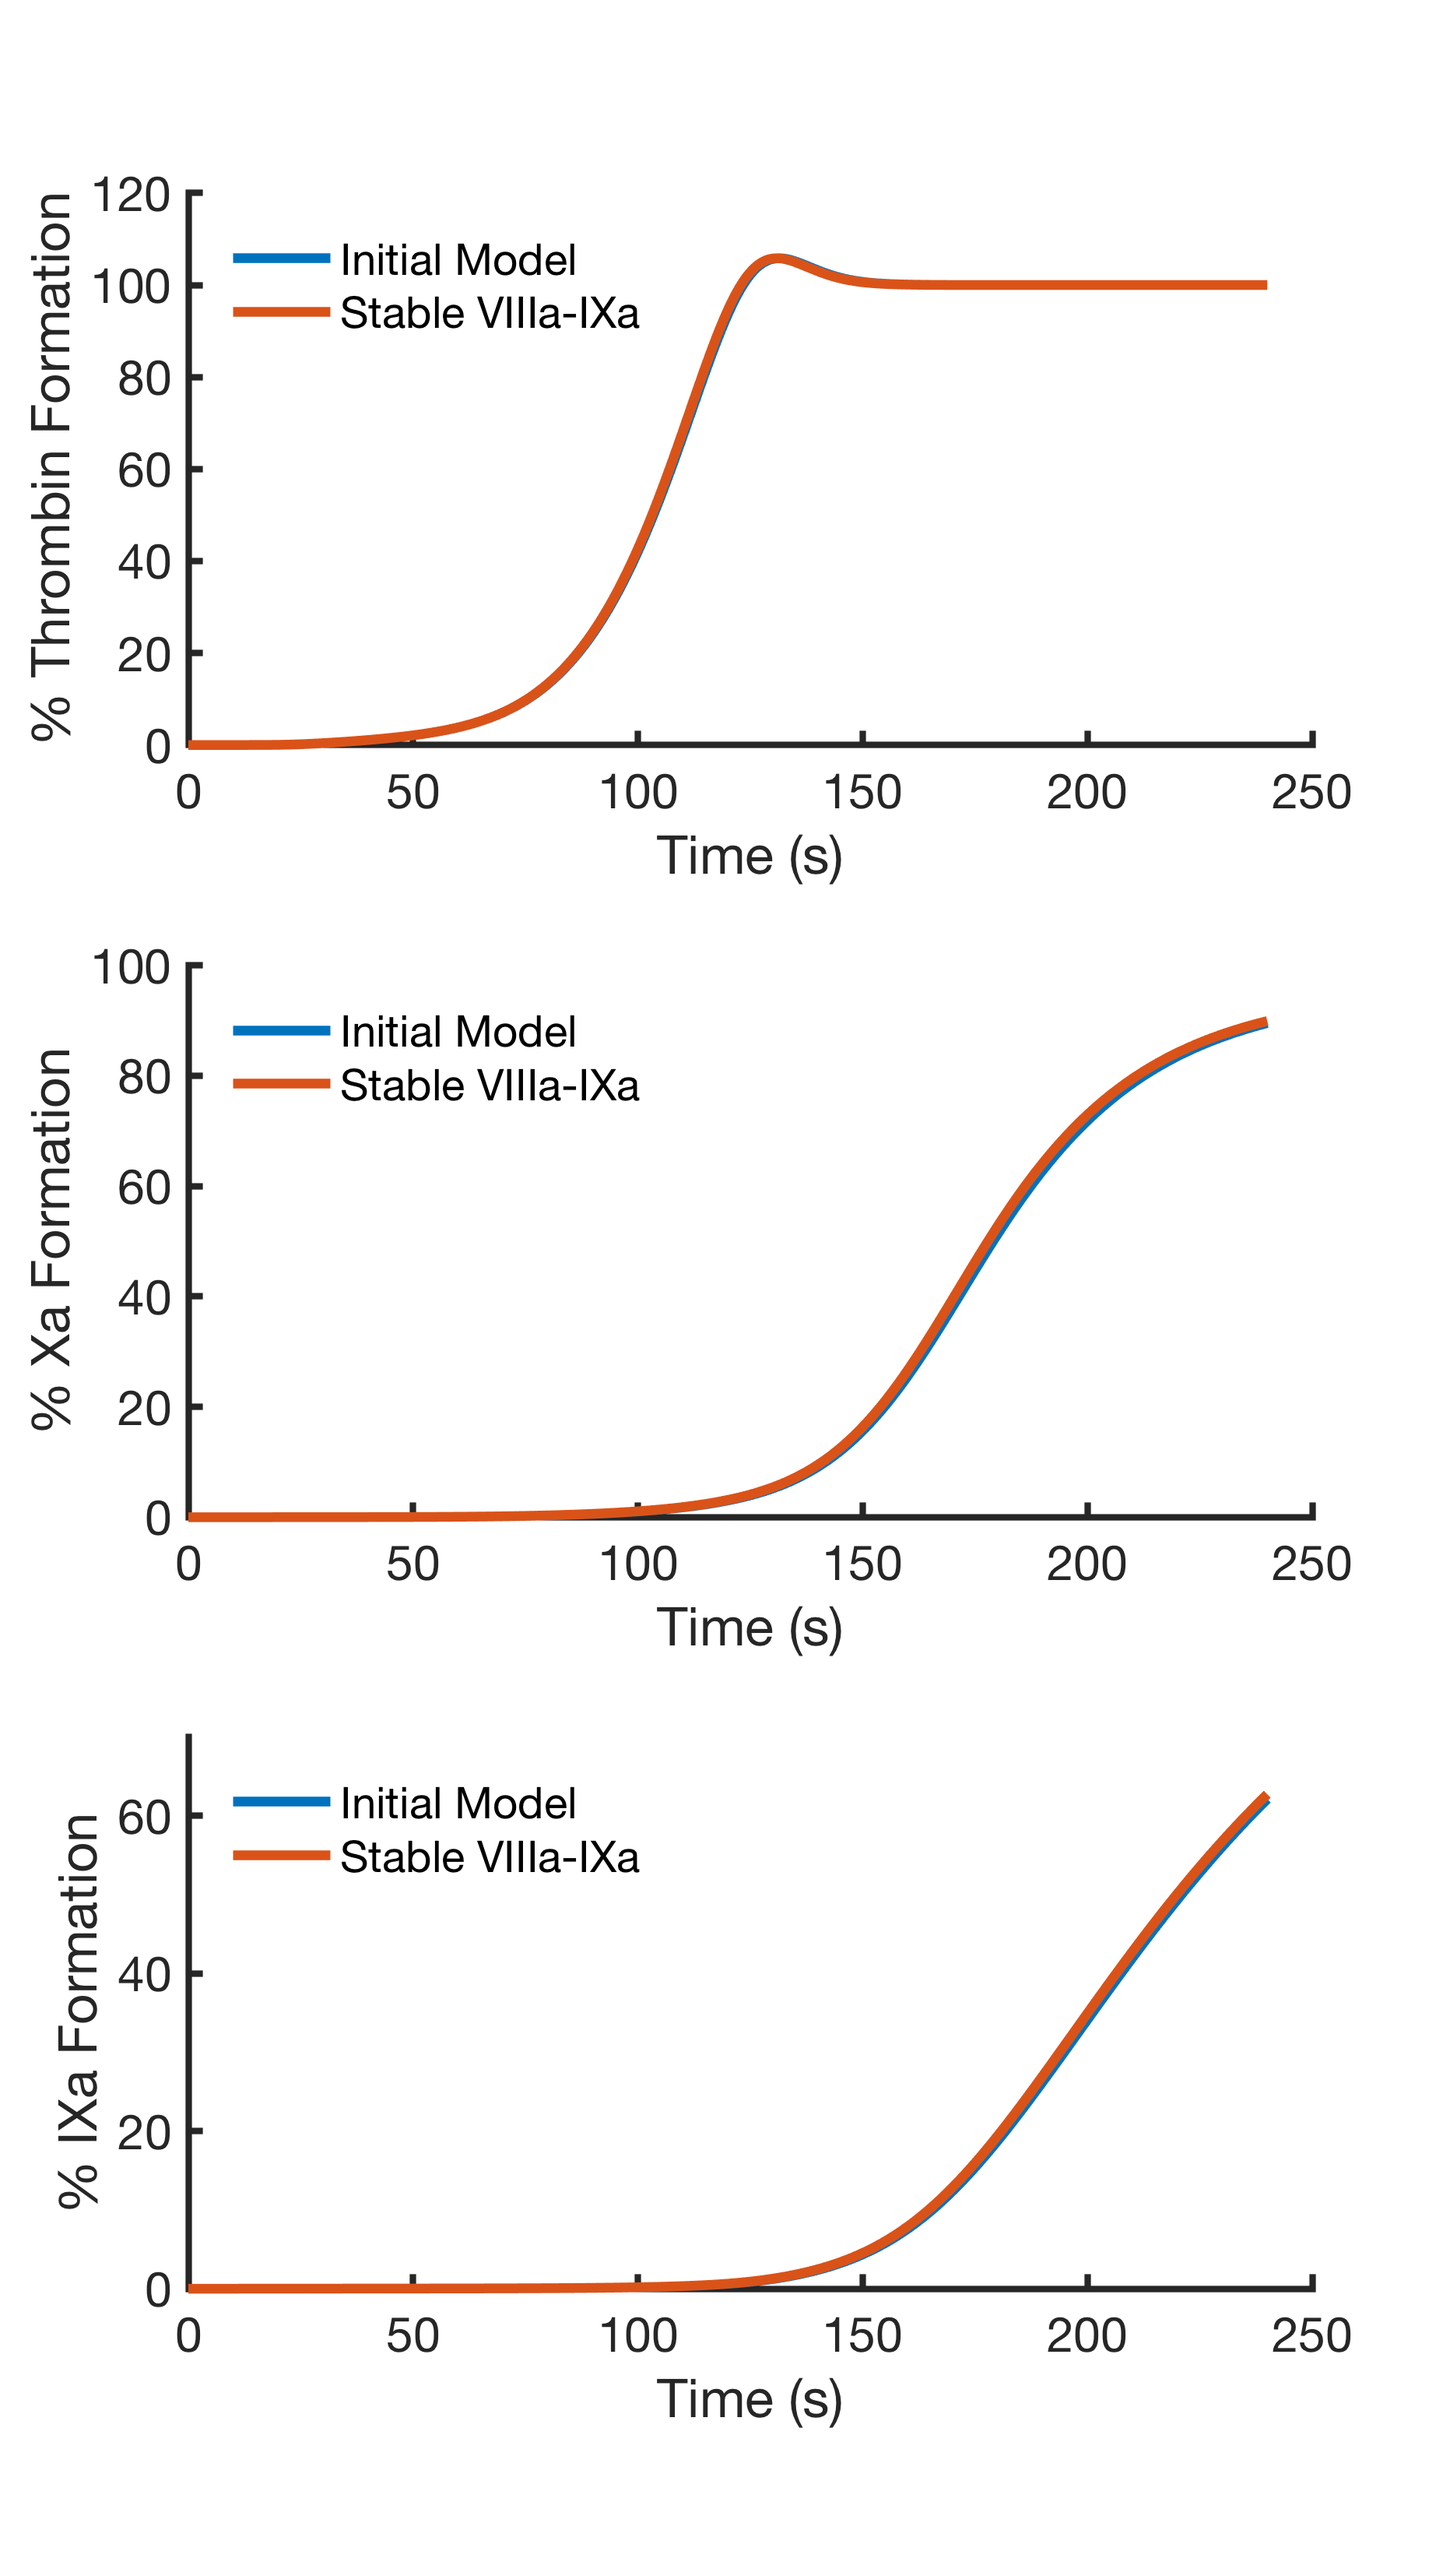
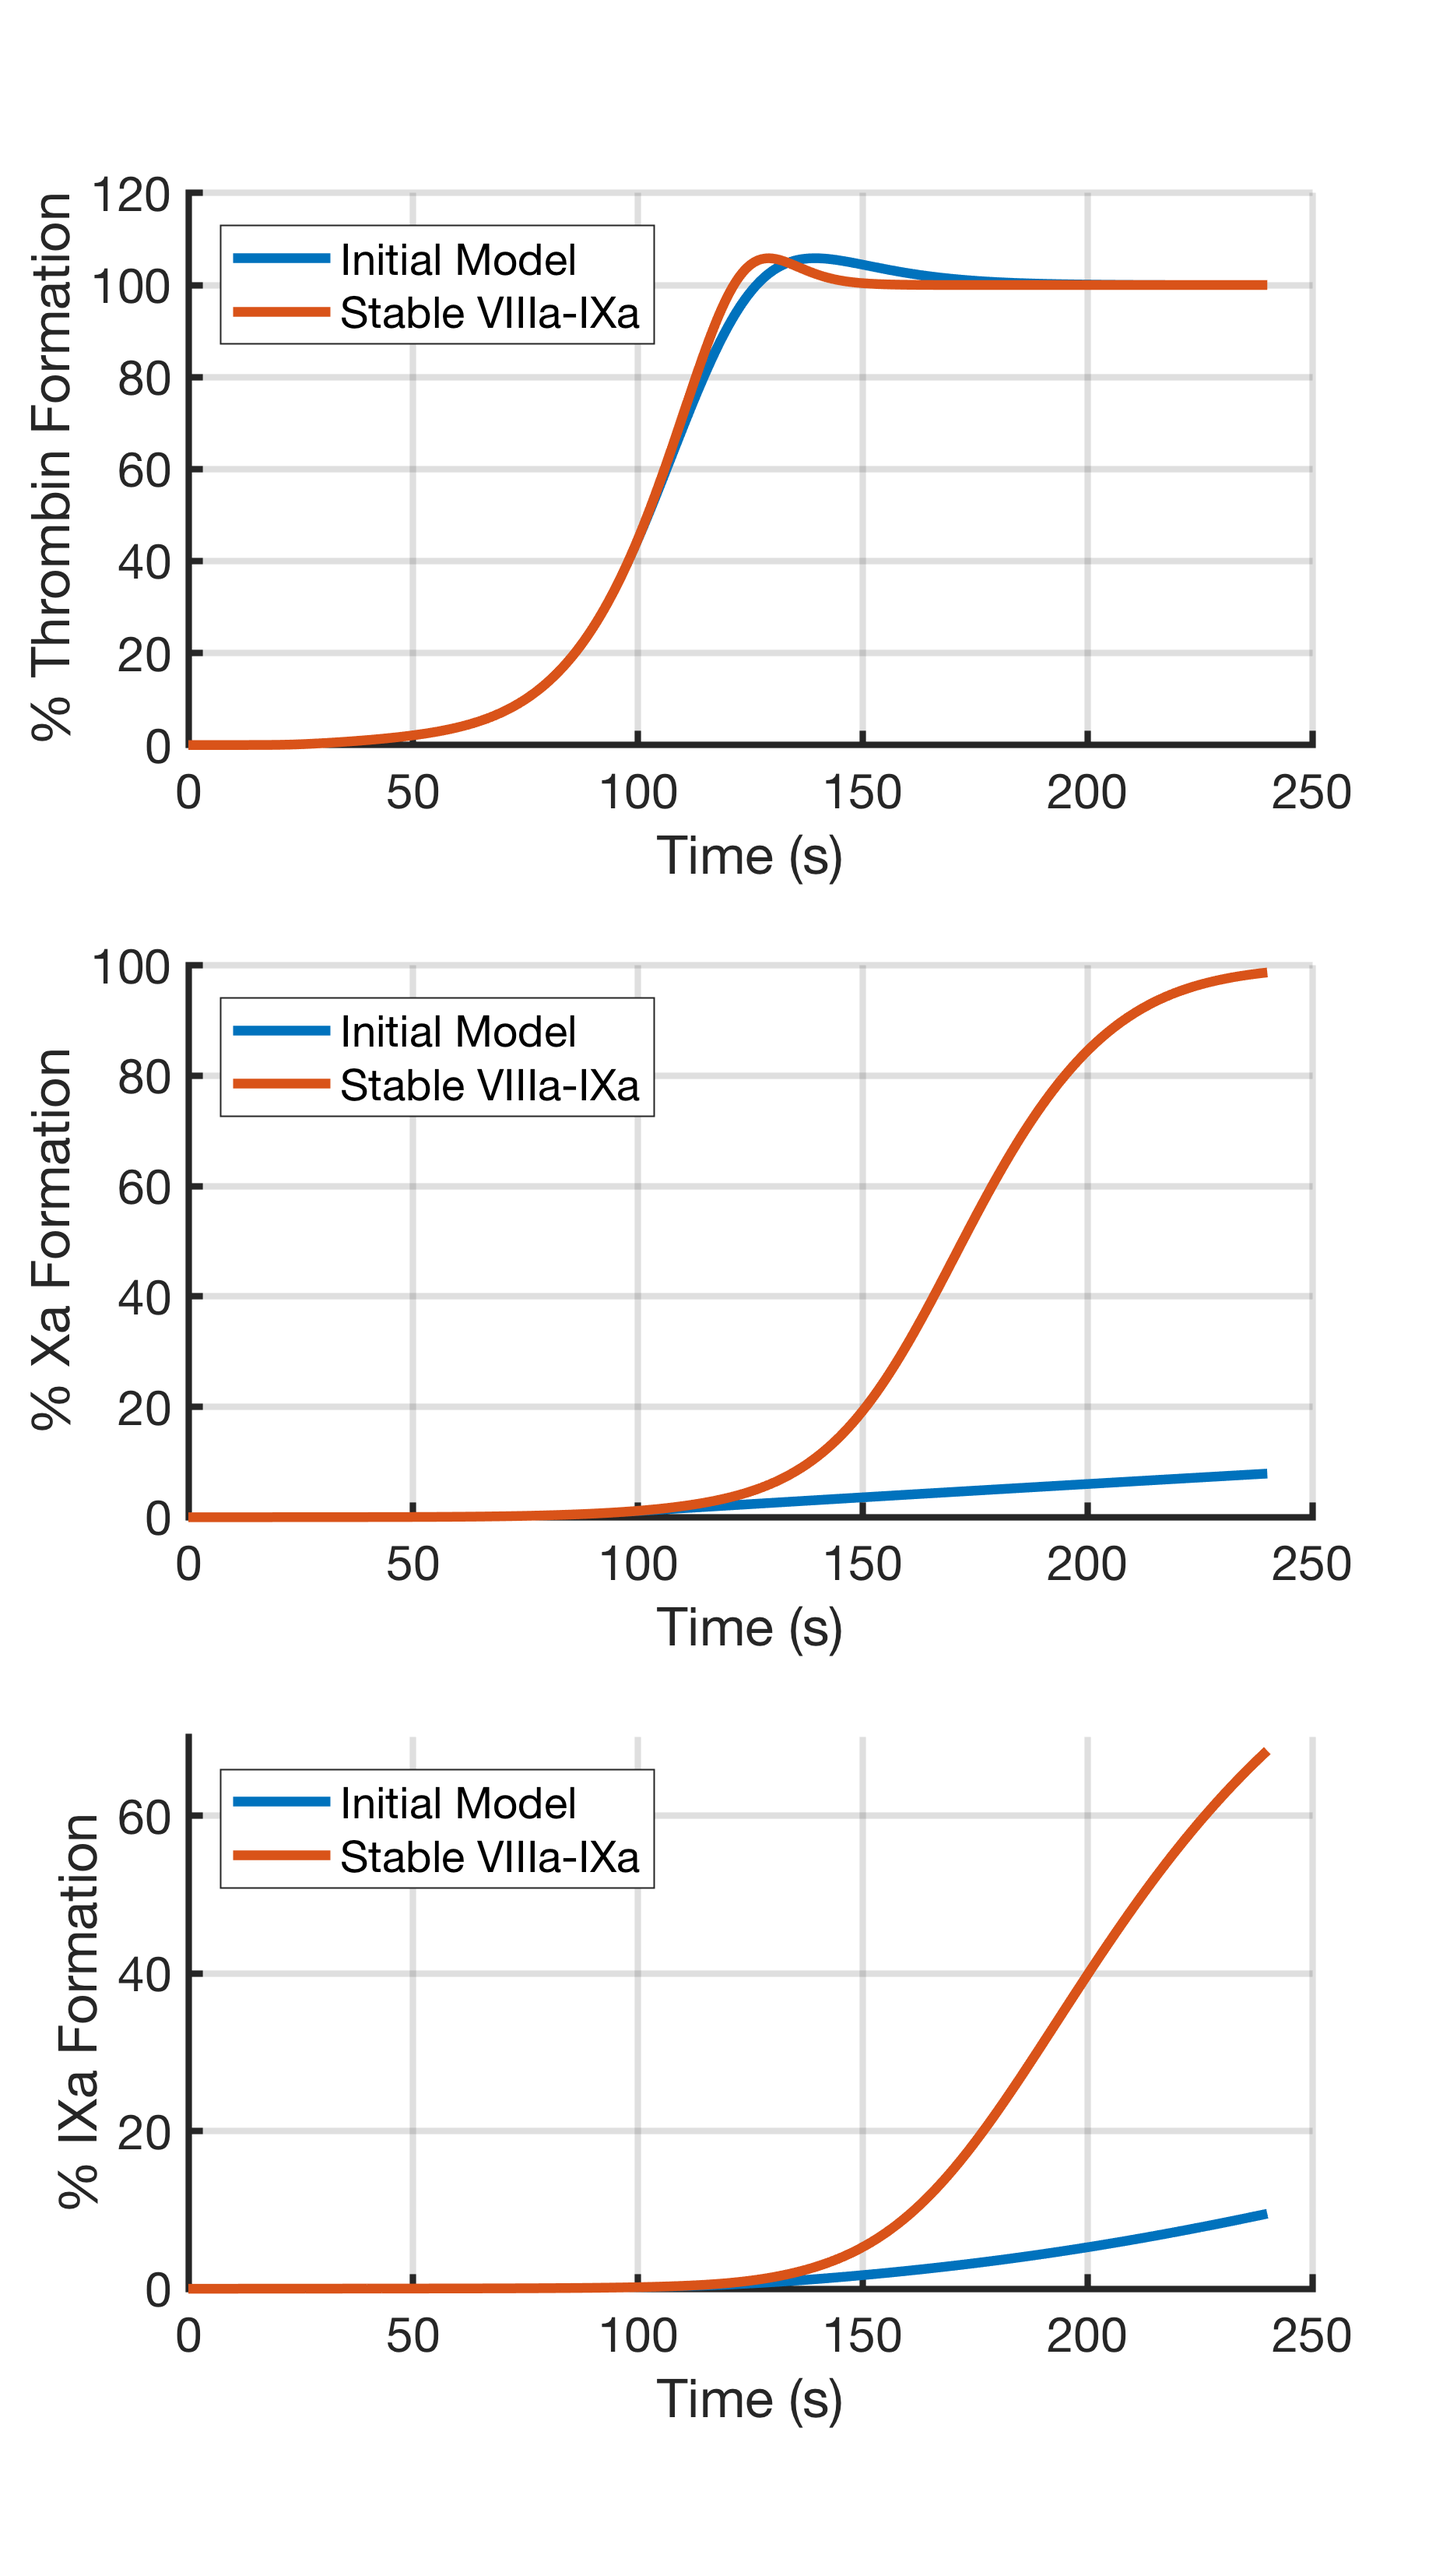
Adding Grid to PLots, Removing Debug Text

diff --git a/swain_corban_jones.m b/swain_corban_jones.m
@@ -13,12 +13,12 @@ function swain_corban_jones
 
     function main
         cleanup;
-%         close all;
-        figures = {fig2};
+        close all;
+        figures = {fig1, fig2};
         corban_figure_defaults;
         for i = 1:length(figures)
             fh = makefigure(figures{i});
-%             savefig(fh);
+            savefig(fh);
         end
     end
 
@@ -86,7 +86,7 @@ y0_original = collect_initials;
 tol = 1e-9;
 odeopts = odeset('RelTol',tol,'AbsTol',tol,...
     'NonNegative',1:length(y0_original));
-tspan = [0, 230];
+tspan = [0, 240];
 
 %% Index Struct
 % Struct for easier indexing of specific species.
@@ -138,14 +138,10 @@ odesim = @(y0, p) ode15s(@odefun, tspan, y0, odeopts, p);
             im = initial_maps{i};
             if size(im,1) > 0
                 y0{i}(im(:,1)) = im(:, 2);
-                display(im)
-                display(y0{i})
             end
             pm = param_maps{i};
             if size(pm,1) > 0 
                 p{i}(pm(:,1)) = pm(:,2);
-                display(pm)
-                display(p{i})
             end
             [t{i}, y{i}] = odesim(y0{i}, p{i});
         end
@@ -239,7 +235,7 @@ odesim = @(y0, p) ode15s(@odefun, tspan, y0, odeopts, p);
         
         fs.n = 2;
         fs.title = '2 - Effecs of Stable VIIIa-IXa';
-%         fs.position = [478 161 447 794];
+        fs.position = [478 161 447 794];
         fs.plots = {plotA, plotB, plotC};
         fs.sub = [3, 1];
     end
@@ -382,6 +378,7 @@ end
 end
 
 function makeplot(ps)
+grid on;
 if iscell(ps.x) && iscell(ps.y)
     n = length(ps.x);
     if  n ~= length(ps.y)
@@ -401,7 +398,8 @@ ylabel(ps.ylabel);
 xlim(ps.xlim);
 ylim(ps.ylim);
 leg = legend(ps.legend);
-legend('boxoff');
+legend('boxon');
+leg.LineWidth = 0.5;
 if isfield(ps, 'legend_loc')
     leg.Location = ps.legend_loc;
 end
@@ -416,7 +414,7 @@ function new_fig = setupfig(n,title,location)
 % location: figure position, [left bottom width height]
 %
 new_fig = figure(n); clf; hold on;
-box off;
+box off; grid on;
 new_fig.Name = title;
 if nargin > 2
     new_fig.Position = location;
